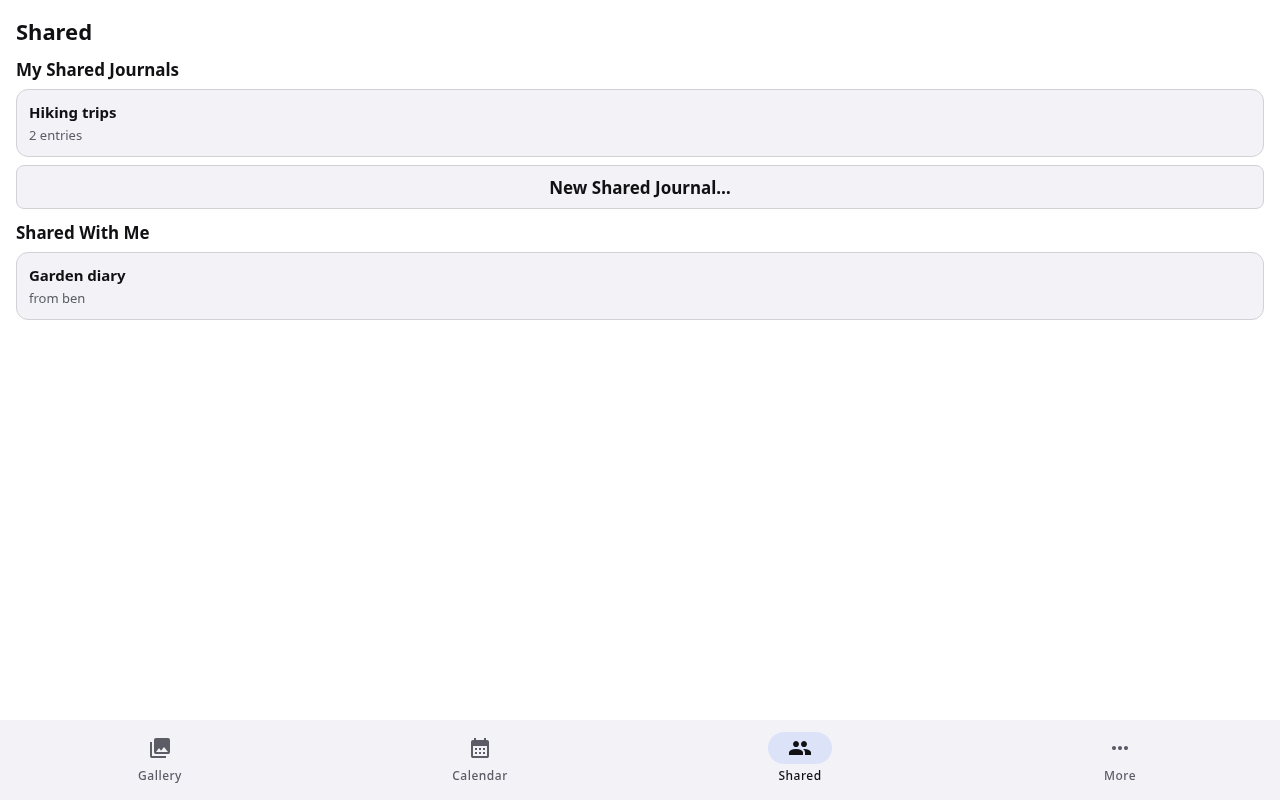
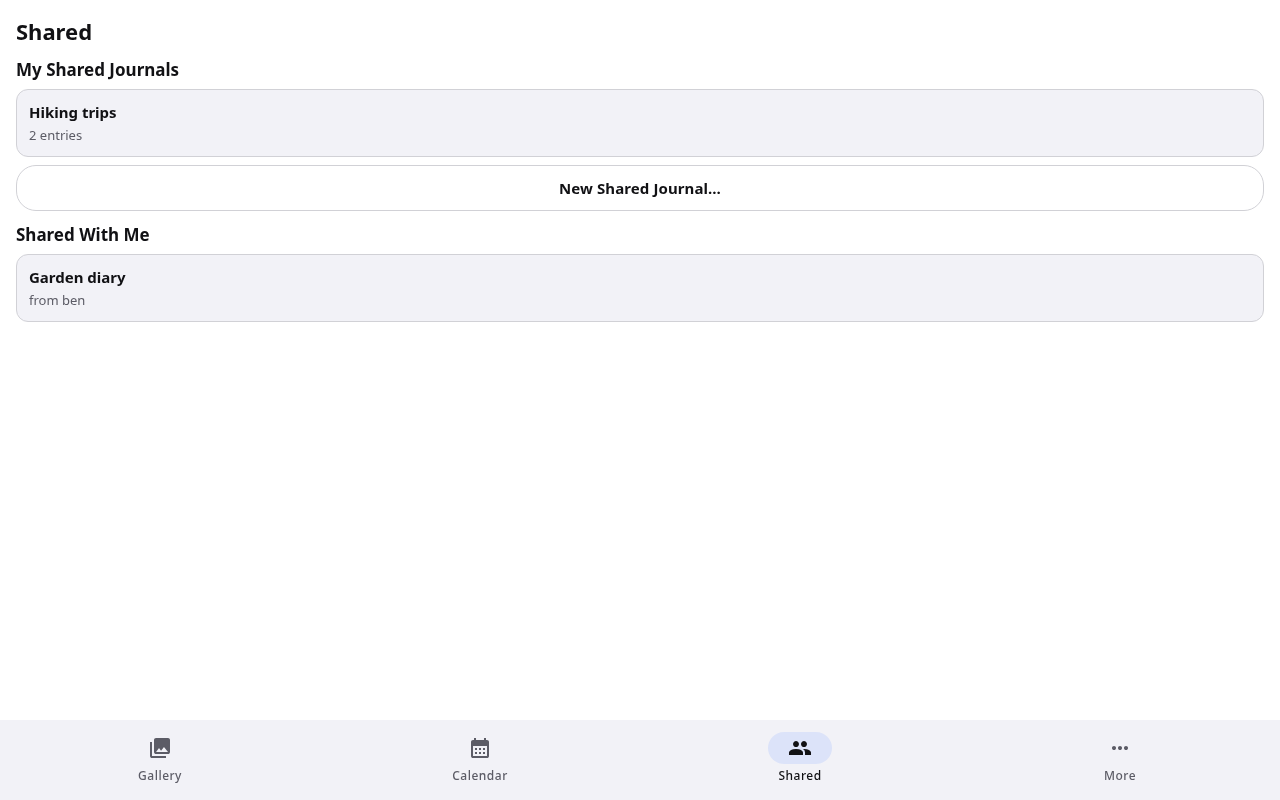
chore: version 0.2.2, screenshots

Changed region(s): [[0.0, 0.2812, 0.125, 0.4062], [0.4375, 0.2188, 0.5625, 0.25]]

diff --git a/apps/client/app.config.ts b/apps/client/app.config.ts
@@ -5,7 +5,7 @@ const LOCATION_PERMISSION_TEXT =
 
 const ICON_BACKGROUND_COLOR = '#1e1d2b';
 
-const APP_VERSION = '0.2.1';
+const APP_VERSION = '0.2.2';
 const VERSION_PART_RANGE = 100;
 
 function versionCodeOf(version: string): number {

diff --git a/docs/features/24-native-feel.md b/docs/features/24-native-feel.md
@@ -1,6 +1,6 @@
 # 24 — Native feel pass (v0.2.2)
 
-Status: draft 1 (2026-11-14, Opus). Source plan: `docs/planning/v0.2.2-native-feel.md` (D-102,
+Status: implemented (2026-11-14, Opus); Android items UNVERIFIED until the v0.2.2 APK. Source plan: `docs/planning/v0.2.2-native-feel.md` (D-102,
 D-103). Base: `main` at `d47e550` (v0.2.1). Branch `feat/v0.2.2-native-feel`, one commit per phase.
 
 Goal: on Android every tap, scroll, transition, sheet and message behaves like a Material 3 app
@@ -94,6 +94,9 @@ Shared-element transitions; swipe between tag tabs; Undo; a sheet library; Kotli
   (Android 12+), default off. Not done: re-reading the palette after a wallpaper change while the
   app runs (restart the app). Font scale: no code turned it off; the phase 2 lint rule keeps it
   so. UNVERIFIED on a device.
+
+- **Phase 7:** screenshots regenerated; version 0.2.2. Tag `v0.2.2` after the PR is merged into
+  `main` (programmer).
 
 ## 5. Device checklist (programmer, on the v0.2.2 APK)
 
